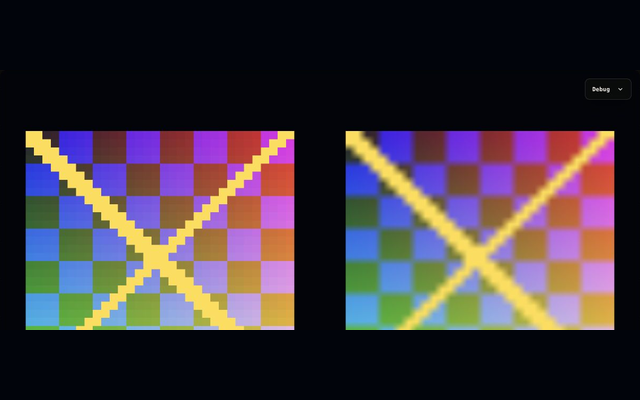
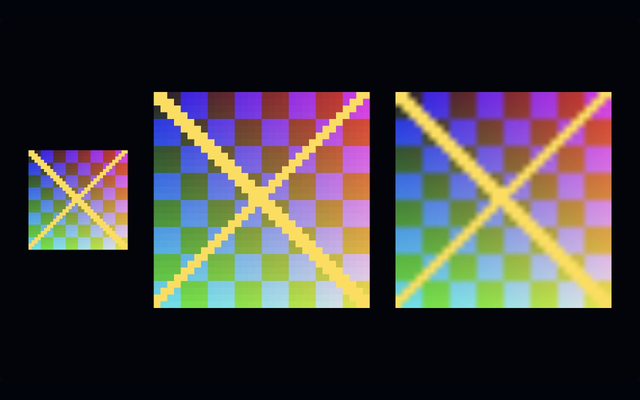
clarify webgpu blit sample

diff --git a/samples/webgpu-gallery/index.html b/samples/webgpu-gallery/index.html
@@ -445,13 +445,13 @@
         <article class="sample-card">
           <a class="sample-preview" href="gpu-blit-webgpu-usl.html?v=@GPU_WEBGPU_GALLERY_VERSION@">
             <img src="previews/blit.png?v=@GPU_WEBGPU_GALLERY_VERSION@"
-                 alt="Nearest and linear texture blits shown side by side"
+                 alt="Source texture, nearest blit, and linear blit shown from left to right"
                  width="640" height="400" loading="lazy" decoding="async">
           </a>
           <div>
             <small>Blit / 33</small>
             <h3><a href="gpu-blit-webgpu-usl.html?v=@GPU_WEBGPU_GALLERY_VERSION@">Texture blit</a></h3>
-            <p>One 32x32 test pattern scales into nearest and linear 256x256 targets.</p>
+            <p>Magnified 32x32 source at left; nearest and linear 256x256 blits at center and right.</p>
           </div>
         </article>
 

diff --git a/samples/blit-webgpu-usl/main.c b/samples/blit-webgpu-usl/main.c
@@ -8,9 +8,12 @@ typedef struct BlitVertex {
 } BlitVertex;
 
 enum {
-  BLIT_SOURCE_SIZE = 32u,
-  BLIT_TARGET_SIZE = 256u,
-  WARM_FRAME_COUNT = 8u
+  BLIT_SOURCE_SIZE        = 32u,
+  BLIT_TARGET_SIZE        = 256u,
+  BLIT_PANEL_COUNT        = 3u,
+  BLIT_VERTICES_PER_PANEL = 6u,
+  BLIT_VERTEX_COUNT       = BLIT_PANEL_COUNT * BLIT_VERTICES_PER_PANEL,
+  WARM_FRAME_COUNT        = 8u
 };
 
 typedef struct WebGPUBlit {
@@ -26,38 +29,117 @@ typedef struct WebGPUBlit {
   GPUBuffer         *vertexBuffer;
   GPUTexture        *source;
   GPUTexture        *targets[2];
-  GPUTextureView    *targetViews[2];
+  GPUTextureView    *views[BLIT_PANEL_COUNT];
   GPUSampler        *sampler;
-  GPUBindGroup      *groups[2];
+  GPUBindGroup      *groups[BLIT_PANEL_COUNT];
   WebGPURequest      request;
   uint32_t           width;
   uint32_t           height;
+  uint32_t           layoutWidth;
+  uint32_t           layoutHeight;
   uint32_t           frameCount;
+  BlitVertex         vertices[BLIT_VERTEX_COUNT];
 } WebGPUBlit;
-
-static const BlitVertex kVertices[] = {
-  { { -0.92f, -0.68f }, { 0.0f, 1.0f } },
-  { { -0.08f, -0.68f }, { 1.0f, 1.0f } },
-  { { -0.92f,  0.68f }, { 0.0f, 0.0f } },
-  { { -0.92f,  0.68f }, { 0.0f, 0.0f } },
-  { { -0.08f, -0.68f }, { 1.0f, 1.0f } },
-  { { -0.08f,  0.68f }, { 1.0f, 0.0f } },
-  { {  0.08f, -0.68f }, { 0.0f, 1.0f } },
-  { {  0.92f, -0.68f }, { 1.0f, 1.0f } },
-  { {  0.08f,  0.68f }, { 0.0f, 0.0f } },
-  { {  0.08f,  0.68f }, { 0.0f, 0.0f } },
-  { {  0.92f, -0.68f }, { 1.0f, 1.0f } },
-  { {  0.92f,  0.68f }, { 1.0f, 0.0f } }
-};
 
 static WebGPUBlit app;
 static uint8_t sourcePixels[BLIT_SOURCE_SIZE * BLIT_SOURCE_SIZE * 4u];
 
+static void
+fill_panel_vertices(BlitVertex *vertices,
+                    float       left,
+                    float       right,
+                    float       bottom,
+                    float       top) {
+  vertices[0] = (BlitVertex){{left,  bottom}, {0.0f, 1.0f}};
+  vertices[1] = (BlitVertex){{right, bottom}, {1.0f, 1.0f}};
+  vertices[2] = (BlitVertex){{left,  top},    {0.0f, 0.0f}};
+  vertices[3] = (BlitVertex){{left,  top},    {0.0f, 0.0f}};
+  vertices[4] = (BlitVertex){{right, bottom}, {1.0f, 1.0f}};
+  vertices[5] = (BlitVertex){{right, top},    {1.0f, 0.0f}};
+}
+
+static void
+fill_panel_from_pixels(WebGPUBlit *state,
+                       uint32_t    panelIndex,
+                       float       left,
+                       float       top,
+                       float       size) {
+  float width;
+  float height;
+  float right;
+  float bottom;
+
+  width  = (float)state->width;
+  height = (float)state->height;
+  right  = left + size;
+  bottom = top + size;
+  fill_panel_vertices(
+    &state->vertices[panelIndex * BLIT_VERTICES_PER_PANEL],
+    left / width * 2.0f - 1.0f,
+    right / width * 2.0f - 1.0f,
+    1.0f - bottom / height * 2.0f,
+    1.0f - top / height * 2.0f
+  );
+}
+
+static int
+update_panel_vertices(WebGPUBlit *state) {
+  float outputSize;
+  float maximumOutputSize;
+  float sourceSize;
+  float gap;
+  float totalWidth;
+  float left;
+  float top;
+
+  if (!state || !state->queue || !state->vertexBuffer ||
+      state->width == 0u || state->height == 0u) {
+    return 0;
+  }
+  if (state->layoutWidth == state->width &&
+      state->layoutHeight == state->height) {
+    return 1;
+  }
+
+  outputSize        = (float)state->height * 0.60f;
+  maximumOutputSize = (float)state->width / 2.82f;
+  if (outputSize > maximumOutputSize) {
+    outputSize = maximumOutputSize;
+  }
+  sourceSize        = outputSize * 0.46f;
+  gap               = outputSize * 0.12f;
+  totalWidth        = sourceSize + outputSize * 2.0f + gap * 2.0f;
+  left              = ((float)state->width - totalWidth) * 0.5f;
+
+  top = ((float)state->height - sourceSize) * 0.5f;
+  fill_panel_from_pixels(state, 0u, left, top, sourceSize);
+  left += sourceSize + gap;
+
+  top = ((float)state->height - outputSize) * 0.5f;
+  fill_panel_from_pixels(state, 1u, left, top, outputSize);
+  left += outputSize + gap;
+  fill_panel_from_pixels(state, 2u, left, top, outputSize);
+
+  if (GPUQueueWriteBuffer(state->queue,
+                          state->vertexBuffer,
+                          0u,
+                          state->vertices,
+                          sizeof(state->vertices)) != GPU_OK) {
+    return 0;
+  }
+  state->layoutWidth  = state->width;
+  state->layoutHeight = state->height;
+  return 1;
+}
+
 static int
 resize_canvas(WebGPUBlit *state) {
-  return resize_webgpu_canvas(state->swapchain,
-                              &state->width,
-                              &state->height);
+  if (!resize_webgpu_canvas(state->swapchain,
+                            &state->width,
+                            &state->height)) {
+    return 0;
+  }
+  return !state->vertexBuffer || update_panel_vertices(state);
 }
 
 static void
@@ -175,6 +257,11 @@ create_pipeline(WebGPUBlit *state) {
 
 static int
 create_blit_textures(WebGPUBlit *state) {
+  GPUCommandBuffer        *cmdb;
+  GPUCommandBuffer        *submitBuffers[1];
+  GPUTexture              *panelTextures[BLIT_PANEL_COUNT];
+  const char              *viewLabels[BLIT_PANEL_COUNT];
+  const char              *groupLabels[BLIT_PANEL_COUNT];
   GPUBufferCreateInfo      bufferInfo = {0};
   GPUTextureCreateInfo     textureInfo = {0};
   GPUTextureWriteRegion    write = {0};
@@ -183,24 +270,18 @@ create_blit_textures(WebGPUBlit *state) {
   GPUSamplerCreateInfo     samplerInfo = {0};
   GPUBindGroupEntry        entries[2] = {0};
   GPUBindGroupCreateInfo   groupInfo = {0};
-  GPUCommandBuffer        *cmdb;
-  GPUCommandBuffer        *submitBuffers[1];
   GPUQueueSubmitInfo       submit = {0};
 
   bufferInfo.chain.sType      = GPU_STRUCTURE_TYPE_BUFFER_CREATE_INFO;
   bufferInfo.chain.structSize = sizeof(bufferInfo);
   bufferInfo.label            = "blit-webgpu-panel-vertices";
-  bufferInfo.sizeBytes        = sizeof(kVertices);
+  bufferInfo.sizeBytes        = sizeof(state->vertices);
   bufferInfo.usage            = GPU_BUFFER_USAGE_VERTEX |
                                 GPU_BUFFER_USAGE_COPY_DST;
   if (GPUCreateBuffer(state->device,
                       &bufferInfo,
                       &state->vertexBuffer) != GPU_OK ||
-      GPUQueueWriteBuffer(state->queue,
-                          state->vertexBuffer,
-                          0u,
-                          kVertices,
-                          sizeof(kVertices)) != GPU_OK) {
+      !update_panel_vertices(state)) {
     set_status("GPU: failed to upload blit panel vertices", 1);
     return 0;
   }
@@ -334,25 +415,31 @@ create_blit_textures(WebGPUBlit *state) {
   entries[1].binding         = 1u;
   entries[1].bindingType     = GPU_BINDING_SAMPLER;
   entries[1].sampler         = state->sampler;
-  for (uint32_t i = 0u; i < 2u; i++) {
-    viewInfo.label = i == 0u
-                       ? "blit-webgpu-nearest-view"
-                       : "blit-webgpu-linear-view";
-    if (GPUCreateTextureView(state->targets[i],
+
+  panelTextures[0] = state->source;
+  panelTextures[1] = state->targets[0];
+  panelTextures[2] = state->targets[1];
+  viewLabels[0]    = "blit-webgpu-source-view";
+  viewLabels[1]    = "blit-webgpu-nearest-view";
+  viewLabels[2]    = "blit-webgpu-linear-view";
+  groupLabels[0]   = "blit-webgpu-source-group";
+  groupLabels[1]   = "blit-webgpu-nearest-group";
+  groupLabels[2]   = "blit-webgpu-linear-group";
+  for (uint32_t i = 0u; i < BLIT_PANEL_COUNT; i++) {
+    viewInfo.label = viewLabels[i];
+    if (GPUCreateTextureView(panelTextures[i],
                              &viewInfo,
-                             &state->targetViews[i]) != GPU_OK) {
-      set_status("GPU: failed to create blit target view", 1);
+                             &state->views[i]) != GPU_OK) {
+      set_status("GPU: failed to create blit panel view", 1);
       return 0;
     }
 
-    entries[0].textureView = state->targetViews[i];
-    groupInfo.label = i == 0u
-                        ? "blit-webgpu-nearest-group"
-                        : "blit-webgpu-linear-group";
+    entries[0].textureView = state->views[i];
+    groupInfo.label        = groupLabels[i];
     if (GPUCreateBindGroup(state->device,
                            &groupInfo,
                            &state->groups[i]) != GPU_OK) {
-      set_status("GPU: failed to create blit target group", 1);
+      set_status("GPU: failed to create blit panel group", 1);
       return 0;
     }
   }
@@ -405,10 +492,14 @@ render_frame(void *userData) {
   vertexBuffer.buffer = state->vertexBuffer;
   GPUBindRenderPipeline(pass, state->pipeline);
   GPUBindVertexBuffers(pass, 0u, 1u, &vertexBuffer);
-  GPUBindRenderGroup(pass, 0u, state->groups[0], 0u, NULL);
-  GPUDraw(pass, 6u, 1u, 0u, 0u);
-  GPUBindRenderGroup(pass, 0u, state->groups[1], 0u, NULL);
-  GPUDraw(pass, 6u, 1u, 6u, 0u);
+  for (uint32_t i = 0u; i < BLIT_PANEL_COUNT; i++) {
+    GPUBindRenderGroup(pass, 0u, state->groups[i], 0u, NULL);
+    GPUDraw(pass,
+            BLIT_VERTICES_PER_PANEL,
+            1u,
+            i * BLIT_VERTICES_PER_PANEL,
+            0u);
+  }
   GPUEndRenderPass(pass);
 
   if (GPUFinishFrame(state->queue, cmdb, frame) != GPU_OK) {
@@ -421,7 +512,7 @@ render_frame(void *userData) {
     GPUFrameStats stats;
 
     if (GPUGetLastFrameStats(state->device, &stats) == GPU_OK &&
-        (stats.drawCalls != 2u ||
+        (stats.drawCalls != BLIT_PANEL_COUNT ||
          stats.hotPathAllocCount != 0u ||
          stats.hotPathFreeCount != 0u)) {
       set_status("GPU: blit sample warm path regression", 1);
@@ -477,7 +568,7 @@ webgpu_ready(GPUResult  result,
   }
 
   GPUResetStats(device);
-  set_status("GPU: nearest blit left, linear blit right", 0);
+  set_status("GPU: source left, nearest blit center, linear blit right", 0);
   emscripten_set_main_loop_arg(render_frame, state, 0, true);
 }
 
